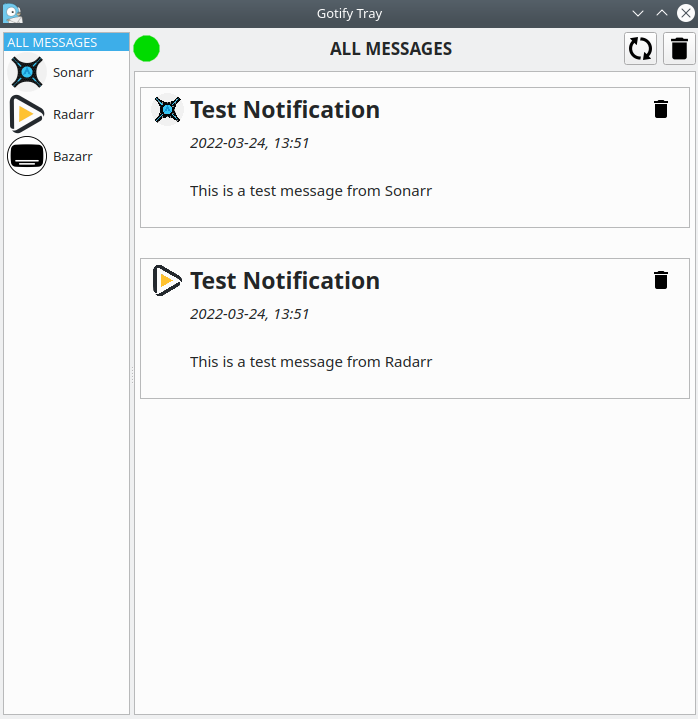
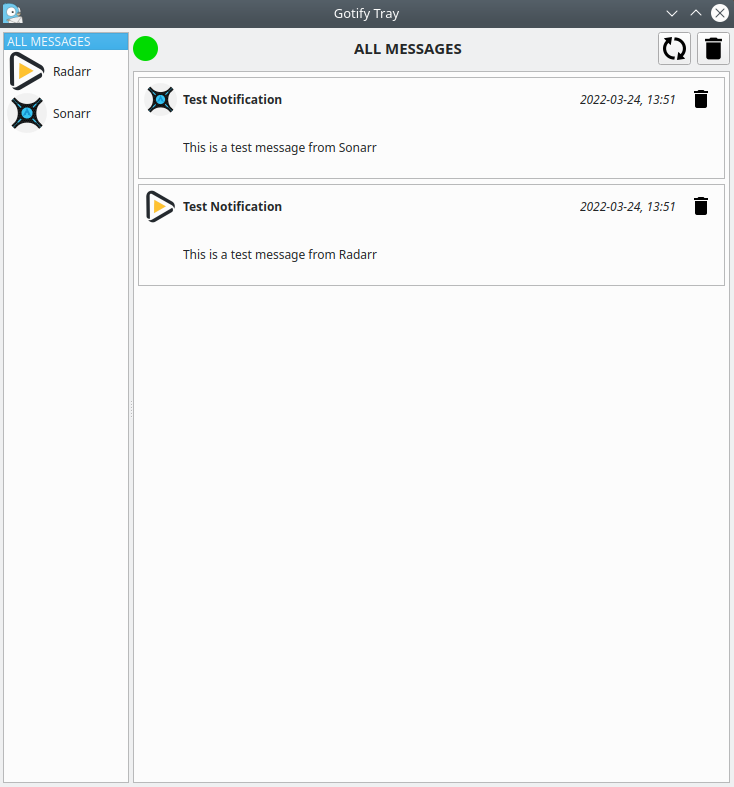
update readme

diff --git a/README.md b/README.md
@@ -4,15 +4,21 @@
 A tray notification application for receiving messages from a [Gotify server](https://github.com/gotify/server).
 
 
-## Download
+## Getting started
 
 
-[Download the latest release.](https://github.com/seird/gotify-tray/releases/latest)
+- [Download the latest release.](https://github.com/seird/gotify-tray/releases/latest)
 
-or, install via pip:
-```
-$ pip install gotify-tray
-```
+- or, install via pip:
+    ```shell
+    $ pip install gotify-tray
+    ```
+
+- or, run from source:
+    ```shell
+    $ pip install -r requirements.txt
+    $ python -m gotify_tray
+    ```
 
 
 ## Features
@@ -41,77 +47,11 @@ Windows 10                                         |  KDE                       
 ![settings](https://raw.githubusercontent.com/seird/gotify-tray/master/images/settings.png)
 
 
-## Manual Installation
+## Build instructions
 
-Get the source and install the requirements:
-
-```
-$ git clone https://github.com/seird/gotify-tray.git
-$ cd gotify-tray
-$ pip install -r requirements.txt
-```
-
-
-### Run from source
-
-```
-$ python -m gotify_tray
-```
-
-### Create a pyinstaller executable
-
-```
-$ pip install pyinstaller
-$ pyinstaller gotify-tray.spec
-```
-An executable is created at `dist/gotify-tray/`.
-
-### Create a macos .app
-
-```
-$ pip install pyinstaller Pillow
-$ pyinstaller gotify-tray.spec
-```
-
-### Inno setup (Windows)
-
-Create an installer for windows with inno setup from pyinstaller output:
-
-```
-$ iscc gotify-tray.iss
-```
-
-### Create and install a pip package
-
-- Create the pip package:
-    ```
-    $ python -m build
-    ```
-
-- Install the pip package:
-    ```
-    $ pip install dist/gotify_tray-0.1.14-py3-none-any.whl
-    ```
-
-- Launch:
-    ```
-    $ gotify-tray
-    ```
-
-### Create a deb package
-
-```
-$ make build
-
-# or install
-
-$ sudo make install
-```
+See [BUILDING](BUILDING.md).
 
 
 ## Requirements
 
 - python >=3.8
-- PyQt6
-- requests
-- websocket-client

diff --git a/BUILDING.md b/BUILDING.md
@@ -1,0 +1,64 @@
+## Get the source and install the requirements:
+
+```shell
+$ git clone https://github.com/seird/gotify-tray.git
+$ cd gotify-tray
+$ pip install -r requirements.txt
+```
+
+
+### Run from source
+
+```shell
+$ python -m gotify_tray
+```
+
+### Create a pyinstaller executable
+
+```shell
+$ pip install pyinstaller
+$ pyinstaller gotify-tray.spec
+```
+An executable is created at `dist/gotify-tray/`.
+
+### Create a macos .app
+
+```shell
+$ pip install pyinstaller Pillow
+$ pyinstaller gotify-tray.spec
+```
+
+### Inno setup (Windows)
+
+Create an installer for windows with inno setup from pyinstaller output:
+
+```shell
+$ iscc gotify-tray.iss
+```
+
+### Create and install a pip package
+
+- Create the pip package:
+    ```shell
+    $ python -m build
+    ```
+
+- Install the pip package:
+    ```shell
+    $ pip install dist/gotify_tray-0.1.14-py3-none-any.whl
+    ```
+
+- Launch:
+    ```shell
+    $ gotify-tray
+    ```
+
+### Create a deb package
+
+```shell
+$ make build
+
+# or install
+
+$ sudo make install
+```
